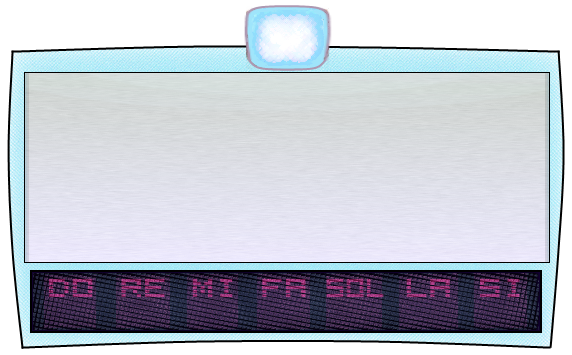
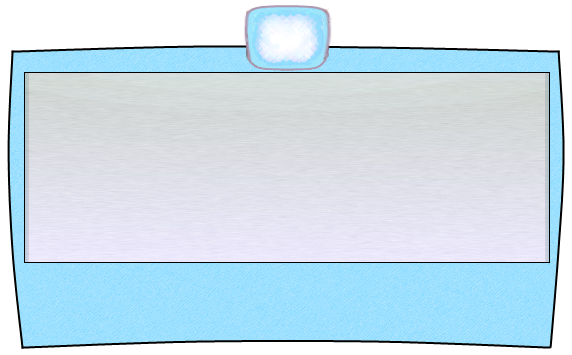
New PlayerView, Delete, Lock and Unlock buttons
Still need to switch between PlayerView and PlayerViewWithButtons.

Changed region(s): [[0.0, 0.1239, 1.0, 0.9915]]

diff --git a/src/PopNTouch2/View/PlayerView.xaml b/src/PopNTouch2/View/PlayerView.xaml
@@ -243,13 +243,13 @@
             <s:SurfaceButton HorizontalAlignment="Center" Grid.Column="6" VerticalAlignment="Bottom" Height="70" Width="70" Command="{Binding ClickNoteButton}" CommandParameter="Si" Content="" Background="{x:Null}"/>
         </Grid>
         <!-- Sup. & lock buttons -->
-        <Grid Visibility="{Binding BottomButtonsVisible, Converter={StaticResource bool2vis}}" Margin="35,300,36,20" Panel.ZIndex="20" Background="Black">
+        <Grid Visibility="{Binding BottomButtonsVisible, Converter={StaticResource bool2vis}}" Margin="35,300,36,20" Panel.ZIndex="20">
             <Grid.ColumnDefinitions>
                 <ColumnDefinition Width="*"/>
                 <ColumnDefinition Width="*"/>
             </Grid.ColumnDefinitions>
             <s:SurfaceButton HorizontalAlignment="Center" Grid.Column="0" VerticalAlignment="Bottom" Height="70" Width="70" Command="{Binding Removal}" Background="{x:Null}">
-                <Image Source="../Resources/UI/BTNP_Sup.png" IsHitTestVisible="False"/>
+                <Image Source="../Resources/UI/BTNP_Delete.png" IsHitTestVisible="False"/>
             </s:SurfaceButton>
             <s:SurfaceToggleButton Style="{StaticResource LockButtonStyle}" HorizontalAlignment="Center" Grid.Column="1" VerticalAlignment="Bottom" Height="70" Width="70" IsChecked="{Binding LockChecked, Mode=TwoWay}" Command="{Binding ClickLock}" Content="" Background="{x:Null}"/>
         </Grid>
